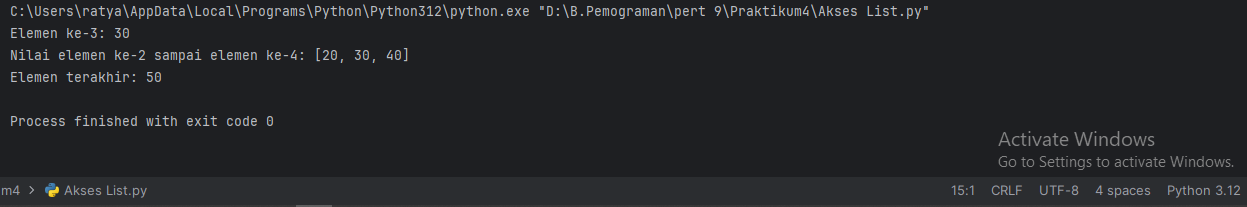
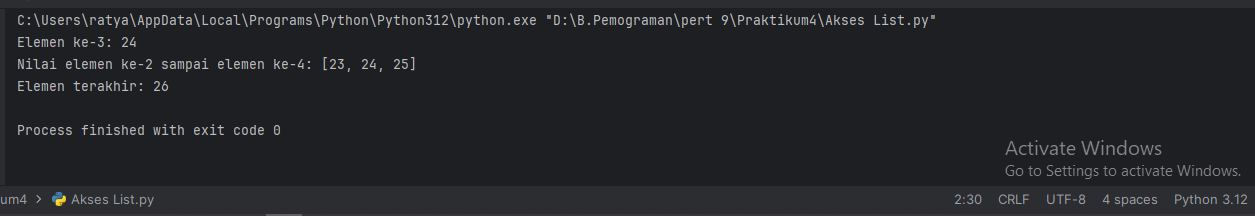
Praktikum 4/5

diff --git a/Mengubah Elemen List.py b/Mengubah Elemen List.py
@@ -1,11 +1,11 @@
 # Membuat list dengan 5 elemen
-my_list = [10, 20, 30, 40, 50]
+my_list = [22, 23, 24, 25, 26]
 
 # Ubah elemen ke-4 dengan nilai lainnya
 my_list[3] = 45
 
 # Ubah elemen ke-4 sampai dengan elemen terakhir
-my_list[3:] = [45, 55, 65]
+my_list[3:] = [31, 32, 33]
 
 # Menampilkan list setelah perubahan
 print("List setelah perubahan:", my_list)

diff --git a/Menambah Elemen List.py b/Menambah Elemen List.py
@@ -1,5 +1,5 @@
 # Membuat list dengan 5 elemen
-my_list = [10, 20, 30, 45, 55, 65]
+my_list = [22, 23, 24, 25, 26]
 
 # Ambil 2 bagian dari list pertama (A) dan jadikan list ke-2 (B)
 list_A = my_list[:2]

diff --git a/Akses List.py b/Akses List.py
@@ -1,5 +1,5 @@
 # Membuat list dengan 5 elemen
-my_list = [10, 20, 30, 40, 50]
+my_list = [22, 23, 24, 25, 26]
 
 # Mengakses dan menampilkan elemen ke-3
 elemen_ke_3 = my_list[2]
